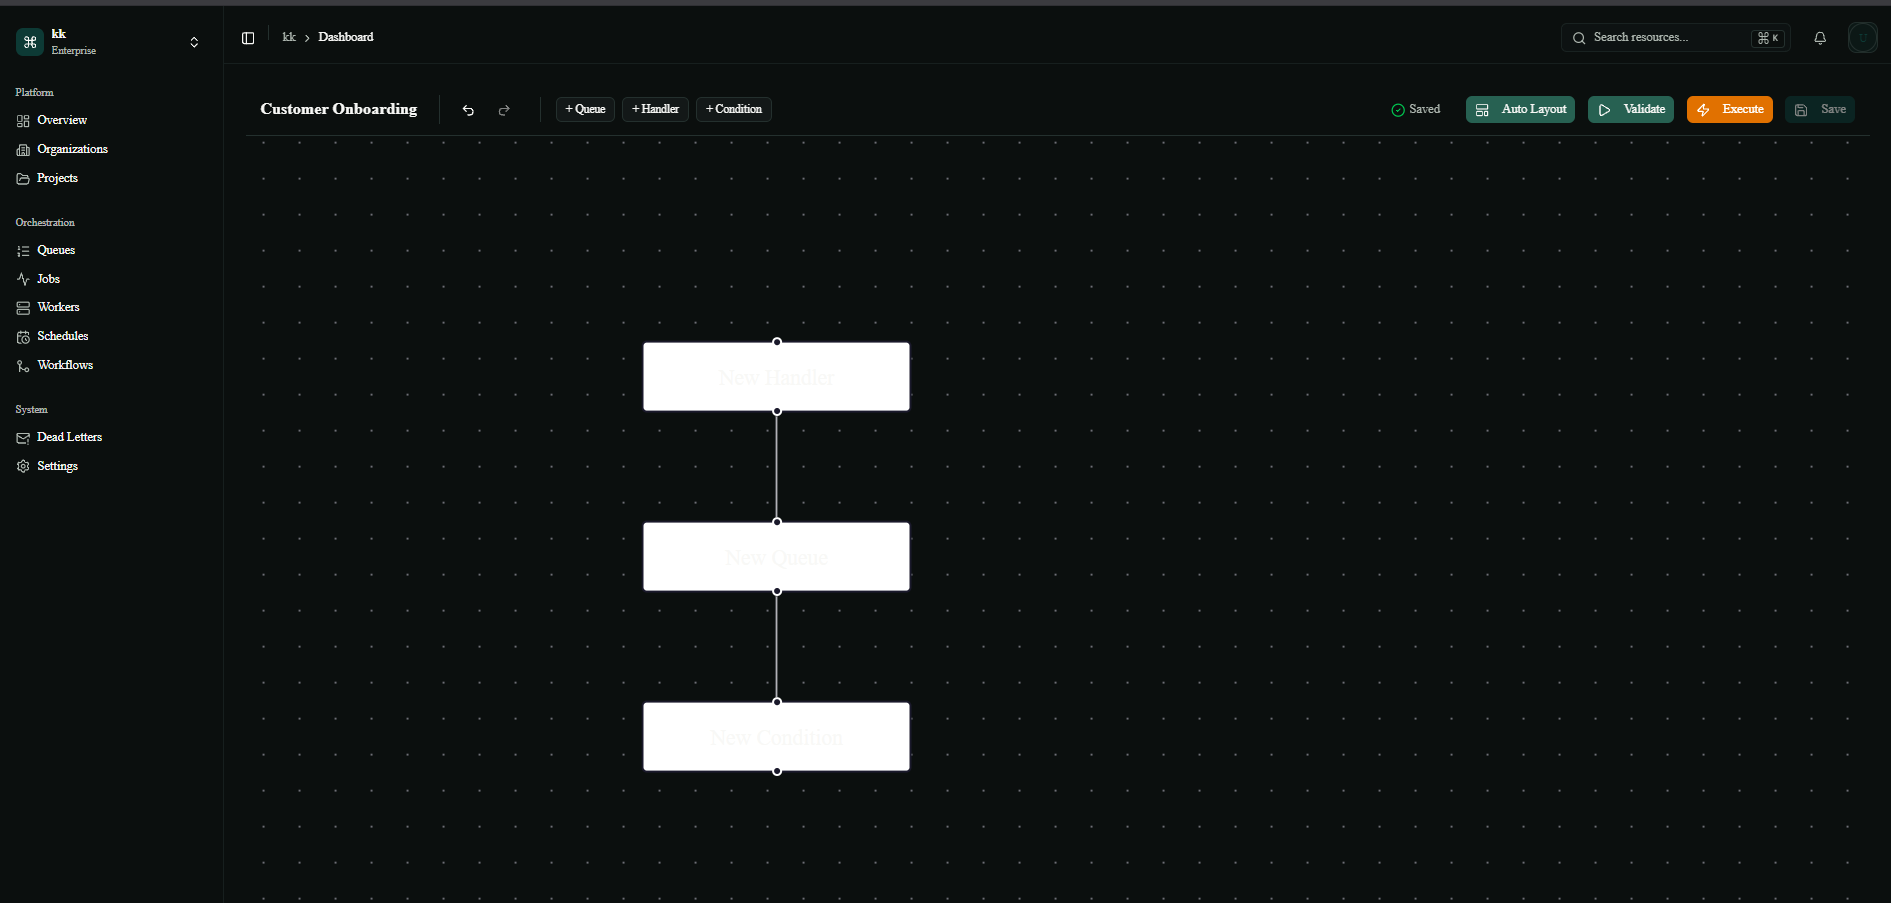
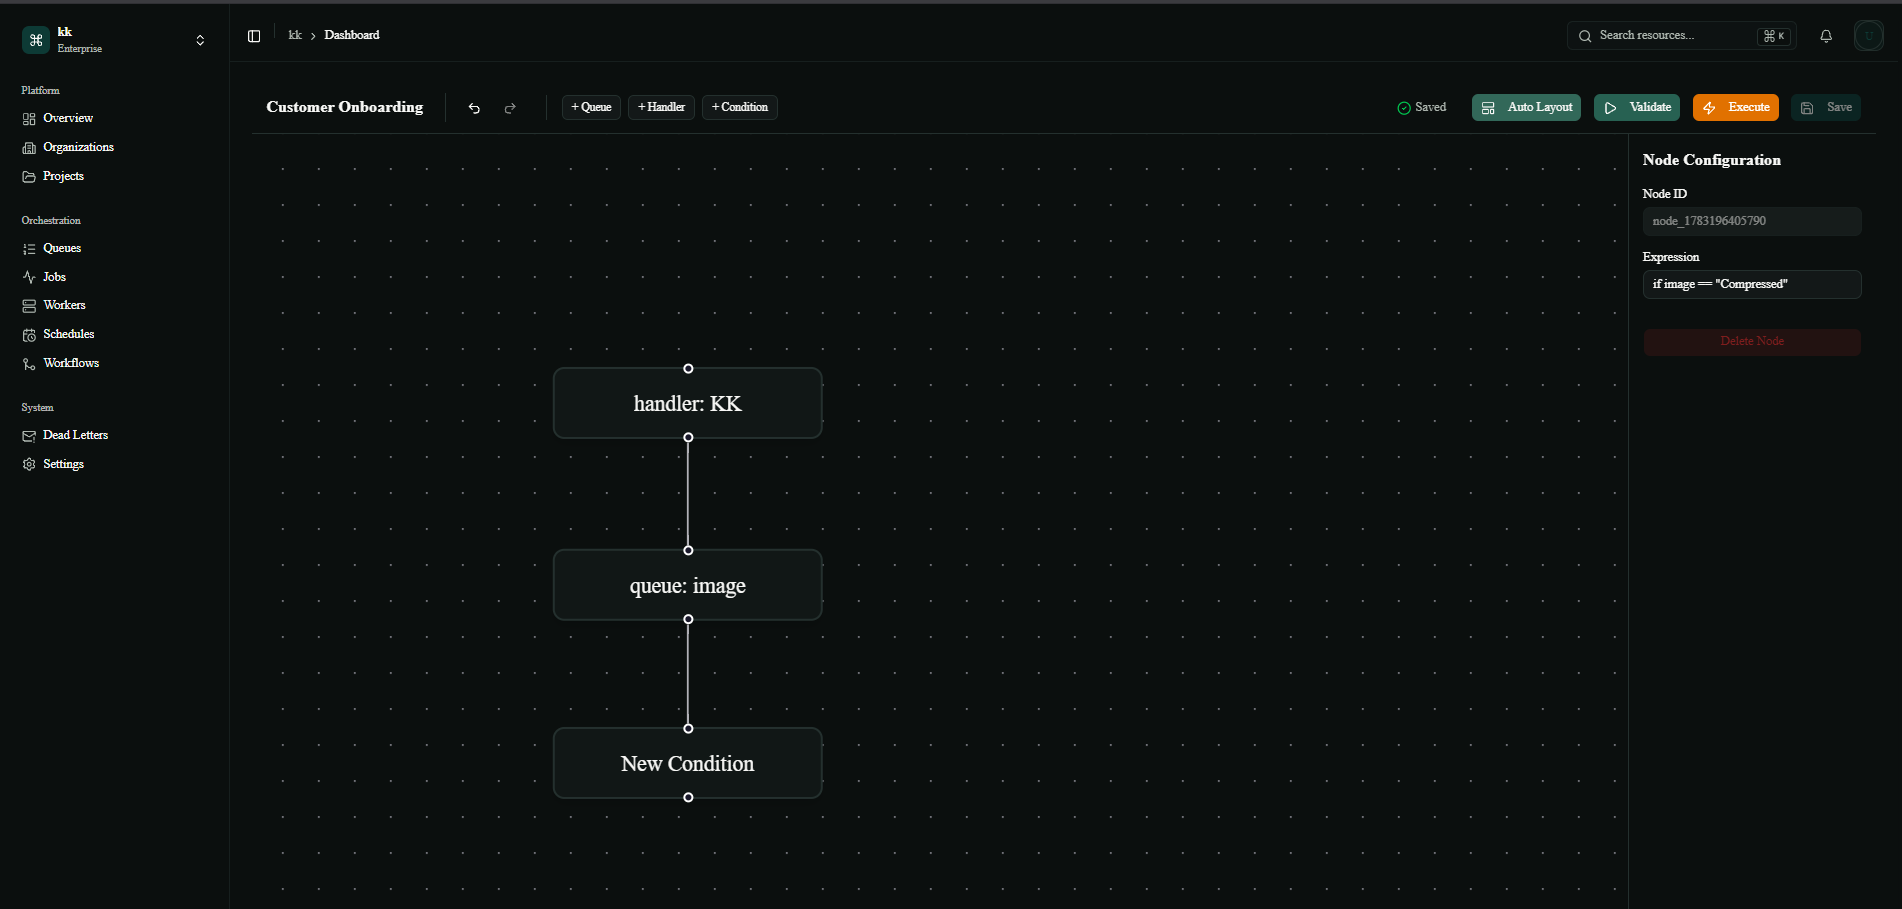
Use native React Flow dark colorMode for perfect visibility

diff --git a/apps/web/src/app/globals.css b/apps/web/src/app/globals.css
@@ -143,10 +143,10 @@
 
 /* Fix React Flow Default Nodes for Dark Theme */
 .dark .react-flow__node-default, .dark .react-flow__node-input, .dark .react-flow__node-output {
-  background-color: var(--card);
-  color: var(--foreground);
-  border-color: var(--border);
-  box-shadow: 0 4px 6px -1px rgb(0 0 0 / 0.1), 0 2px 4px -2px rgb(0 0 0 / 0.1);
-  border-radius: var(--radius-md);
-  font-family: var(--font-sans);
+  background-color: var(--card) !important;
+  color: var(--foreground) !important;
+  border-color: var(--border) !important;
+  box-shadow: 0 4px 6px -1px rgb(0 0 0 / 0.1), 0 2px 4px -2px rgb(0 0 0 / 0.1) !important;
+  border-radius: var(--radius-md) !important;
+  font-family: var(--font-sans) !important;
 }

diff --git a/apps/web/src/app/(dashboard)/workflows/[id]/builder/page.tsx b/apps/web/src/app/(dashboard)/workflows/[id]/builder/page.tsx
@@ -358,6 +358,7 @@ export default function WorkflowBuilderPage(props: { params: Promise<{ id: strin
           onConnect={onConnect}
           onNodeClick={(_, node) => setSelectedNode(node)}
           onPaneClick={() => setSelectedNode(null)}
+          colorMode="dark"
           fitView
         >
           <Background />

diff --git a/apps/web/src/app/(dashboard)/workflows/[id]/executions/[executionId]/page.tsx b/apps/web/src/app/(dashboard)/workflows/[id]/executions/[executionId]/page.tsx
@@ -134,6 +134,7 @@ export default function ExecutionDetailView(props: { params: Promise<{ id: strin
         <ReactFlow
           nodes={nodes}
           edges={edges}
+          colorMode="dark"
           fitView
           nodesDraggable={false}
           nodesConnectable={false}

diff --git a/apps/web/src/components/marketing/workflow-preview.tsx b/apps/web/src/components/marketing/workflow-preview.tsx
@@ -196,6 +196,7 @@ export function WorkflowPreview() {
             edges={edges}
             onNodesChange={onNodesChange}
             onEdgesChange={onEdgesChange}
+            colorMode="dark"
             nodeTypes={nodeTypes}
             fitView
             fitViewOptions={{ padding: 0.2 }}